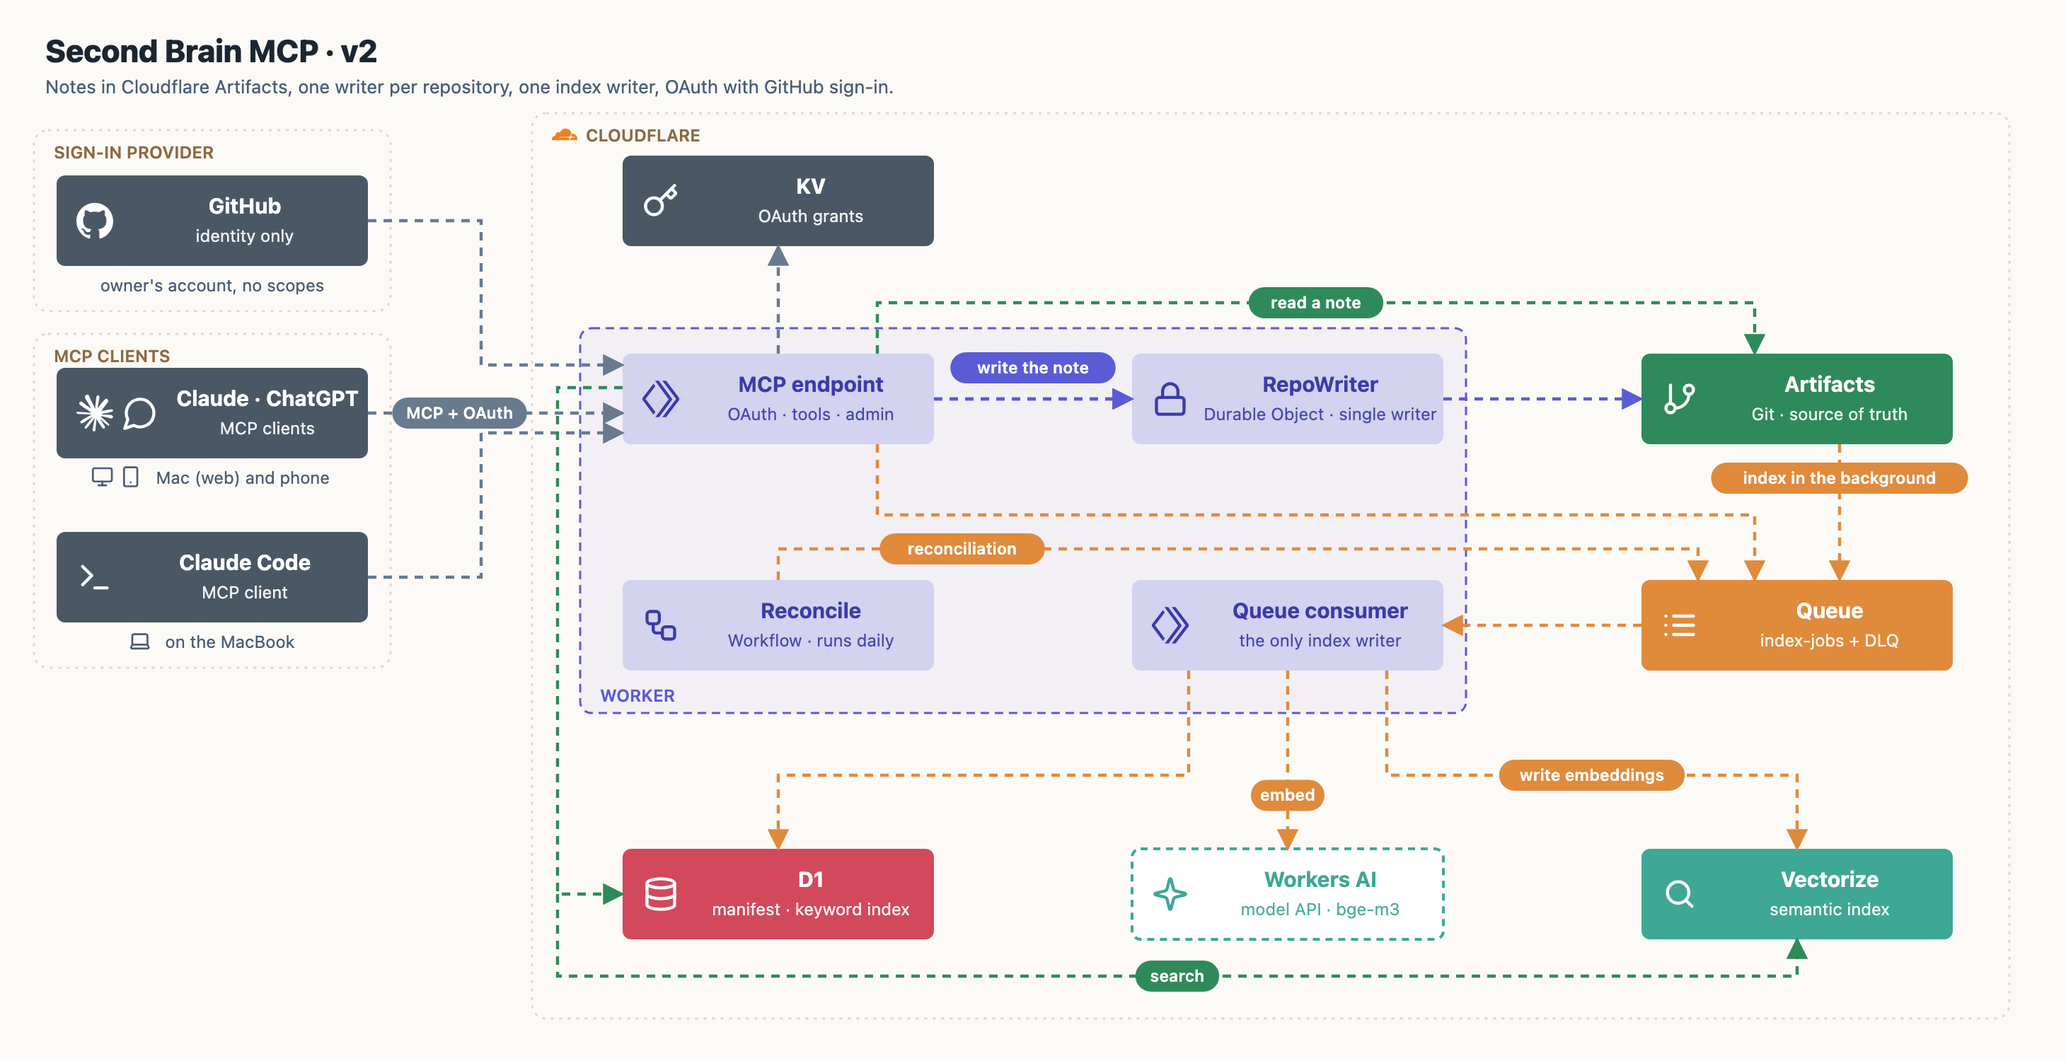
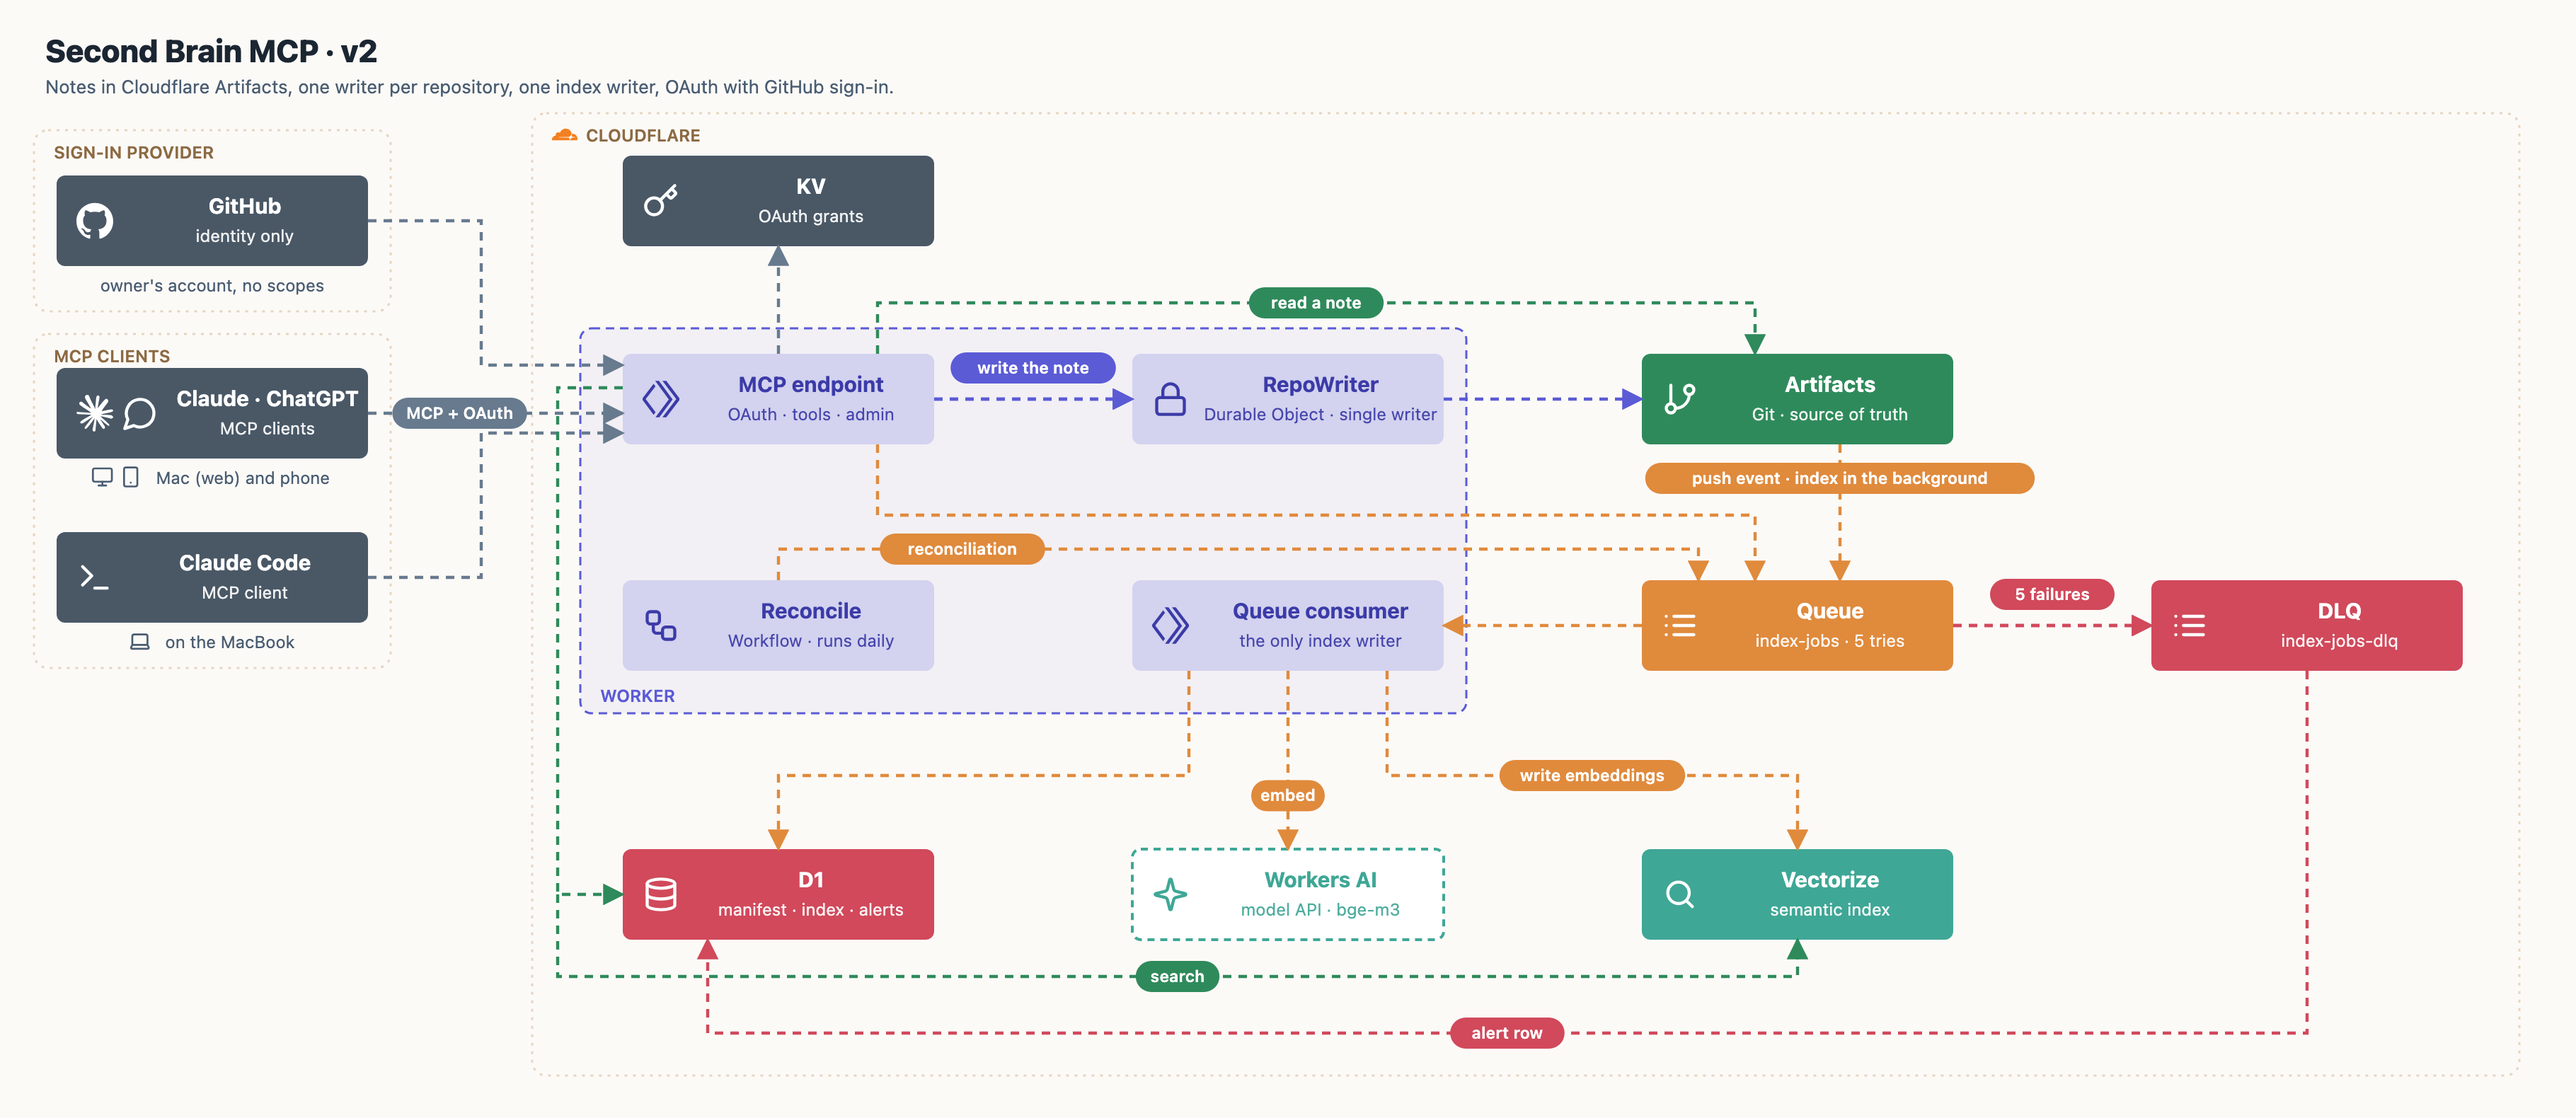
Architecture v2: DLQ box and one map per flow (#72)
* Architecture v2: show the DLQ and the alert row it writes to D1

Claude-Session: https://claude.ai/code/session_0171UdtAm1pRxwuhTFhKDhrM

* Architecture v2: name the push event that feeds the queue

Claude-Session: https://claude.ai/code/session_0171UdtAm1pRxwuhTFhKDhrM

* Architecture: one map per flow (sign-in, write, read, index, failure, search)

Claude-Session: https://claude.ai/code/session_0171UdtAm1pRxwuhTFhKDhrM

* Architecture: reconciliation as its own flow map

Claude-Session: https://claude.ai/code/session_0171UdtAm1pRxwuhTFhKDhrM

* Architecture: order the flow maps as a reader meets them

Claude-Session: https://claude.ai/code/session_0171UdtAm1pRxwuhTFhKDhrM

* Architecture: index before read and search

Claude-Session: https://claude.ai/code/session_0171UdtAm1pRxwuhTFhKDhrM

* Architecture: index flow shows only the real-time producers

Claude-Session: https://claude.ai/code/session_0171UdtAm1pRxwuhTFhKDhrM

* Architecture: reconciliation reads top to bottom (Artifacts, D1, Queue)

Claude-Session: https://claude.ai/code/session_0171UdtAm1pRxwuhTFhKDhrM

* Architecture: the reconcile schedule is a setting of the Workflow

Claude-Session: https://claude.ai/code/session_0171UdtAm1pRxwuhTFhKDhrM

* Architecture: failure flow ends at the DLQ; reconciliation is flow 6

Claude-Session: https://claude.ai/code/session_0171UdtAm1pRxwuhTFhKDhrM

* Architecture: '1. step' numbering on the flow maps
[…]

diff --git a/docs/architecture/draw_flows.py b/docs/architecture/draw_flows.py
@@ -1,0 +1,109 @@
+#!/usr/bin/env python3
+"""One map per flow (docs/architecture/flows/*.svg), in the same style as v2.svg.
+Numbers on the arrows give the order. Run: python3 docs/architecture/draw_flows.py"""
+import os, sys
+sys.path.insert(0, os.path.dirname(__file__))
+from draw import box, arrow, svg  # also redraws v1/v2, unchanged
+
+OUT = os.path.join(os.path.dirname(__file__), "flows")
+def save(name, w, h, title, sub, parts):
+    open(os.path.join(OUT, name + ".svg"), "w").write(svg(w, h, title, sub, "".join(parts)))
+
+client = lambda x, y: box(x, y, "MCP client", "Claude · ChatGPT · Code", "slate", icons=("chat",))
+endpoint = lambda x, y, cap=None: box(x, y, "MCP endpoint", "Worker · fetch()", "indigo", cap, icons=("workers",), kind="part")
+
+# 1. sign-in
+save("1-sign-in", 1160, 460, "Flow 1 · Sign-in", "OAuth 2.1 with GitHub as the identity provider; only the owner's account gets a grant.", [
+    client(40, 200), endpoint(460, 200),
+    box(880, 80, "GitHub", "identity only", "slate", "user id == OWNER_GITHUB_ID?", icons=("github",)),
+    box(880, 340, "KV", "OAuth grants", "slate", "token checked on every call", icons=("key",)),
+    arrow([(260, 210), (460, 210)], "1. register · authorize", flow="auth"),
+    arrow([(570, 200), (570, 112), (880, 112)], "2. sign in", at=0.25, flow="auth"),
+    arrow([(880, 132), (630, 132), (630, 200)], "3. callback", at=0.25, flow="auth"),
+    arrow([(570, 264), (570, 372), (880, 372)], "4. store grant", flow="auth"),
+    arrow([(460, 234), (260, 234)], "5. access token", flow="auth"),
+    arrow([(260, 258), (460, 258)], "6. /mcp + Bearer", flow="auth"),
+])
+
+# 2. write
+save("2-write", 1560, 400, "Flow 2 · Write a note", "One Durable Object per repository applies writes one at a time; the index catches up in the background.", [
+    client(40, 110), endpoint(460, 110),
+    box(880, 110, "RepoWriter", "Durable Object · mutex", "indigo", "stale expected_version → conflict", icons=("lock",), kind="part"),
+    box(1300, 110, "Artifacts", "Git · source of truth", "green", "branch moved → re-apply (3 tries)", icons=("branch",)),
+    box(880, 290, "Queue", "index-jobs", "orange", icons=("queue",)),
+    arrow([(260, 126), (460, 126)], "1. write_note", flow="write"),
+    arrow([(680, 142), (880, 142)], "2. one at a time", flow="write"),
+    arrow([(1100, 142), (1300, 142)], "3. commit + push", flow="write"),
+    arrow([(570, 174), (570, 322), (880, 322)], "4. enqueue path", flow="index"),
+    arrow([(460, 160), (260, 160)], "5. ok · version", flow="write"),
+])
+
+# 4. read
+save("4-read", 1140, 340, "Flow 4 · Read a note", "Straight from Git; the reply carries the version for a later write.", [
+    client(40, 160), endpoint(460, 160),
+    box(880, 160, "Artifacts", "Git · source of truth", "green", icons=("branch",)),
+    arrow([(260, 176), (460, 176)], "1. read_note", flow="read"),
+    arrow([(680, 176), (880, 176)], "2. read file", flow="read"),
+    arrow([(880, 208), (680, 208)], "3. content", flow="read"),
+    arrow([(460, 208), (260, 208)], "4. text + version", flow="read"),
+])
+
+# 3. index
+save("3-index", 1640, 440, "Flow 3 · Index in the background", "Two producers in real time (the daily repair is flow 6), one consumer: the only writer of both indexes.", [
+    endpoint(40, 80, "after each write"),
+    box(40, 200, "Artifacts", "push event", "green", icons=("branch",)),
+    box(460, 200, "Queue", "index-jobs · path only", "orange", icons=("queue",)),
+    box(880, 200, "Queue consumer", "Worker · queue()", "indigo", "same sha → skip · head moved → requeue", icons=("workers",), kind="part"),
+    box(1380, 60, "D1", "manifest · FTS5 chunks", "red", icons=("database",)),
+    box(1380, 200, "Workers AI", "model API · bge-m3", "teal", icons=("sparkles",), kind="api"),
+    box(1380, 340, "Vectorize", "semantic index", "teal", icons=("search",)),
+    arrow([(260, 112), (400, 112), (400, 214), (460, 214)], "1. enqueue", flow="index"),
+    arrow([(260, 232), (460, 232)], "1. pushed", flow="index"),
+    arrow([(680, 232), (880, 232)], "2. deliver", flow="index"),
+    arrow([(1100, 232), (1380, 232)], "3. embed chunks", flow="index"),
+    arrow([(1100, 248), (1150, 248), (1150, 372), (1380, 372)], "4. upsert h-seq", flow="index"),
+    arrow([(1100, 216), (1150, 216), (1150, 92), (1380, 92)], "5. manifest + FTS", flow="index"),
+])
+
+# 6. reconcile
+save("6-reconcile", 1160, 480, "Flow 6 · Reconciliation", "The schedule is a setting of the Workflow itself (also started by POST /admin/reconcile); it enqueues only what differs.", [
+    '<rect x="20" y="160" width="680" height="140" rx="8" fill="#5B5BD6" fill-opacity="0.06" stroke="#5B5BD6" stroke-width="1.5" stroke-dasharray="6 4"/>'
+    '<text x="34" y="292" class="gl" style="fill:#5B5BD6">WORKFLOW reconcile · Settings › Schedules</text>',
+    box(40, 184, "Schedule", "cron 0 4 * * * (UTC)", "indigo", icons=("workflow",), kind="part"),
+    box(460, 184, "Reconcile", "Workflow · durable steps", "indigo", icons=("workflow",), kind="part"),
+    box(880, 80, "Artifacts", "Git · source of truth", "green", icons=("branch",)),
+    box(880, 184, "D1", "manifest · FTS5 chunks", "red", icons=("database",)),
+    box(880, 340, "Queue", "index-jobs", "orange", "missing · changed · orphans · keyword gaps", icons=("queue",)),
+    arrow([(260, 216), (460, 216)], "start", flow="index"),
+    arrow([(570, 184), (570, 112), (880, 112)], "1. notes + sha", flow="index"),
+    arrow([(680, 216), (880, 216)], "2. what's indexed", flow="index"),
+    arrow([(570, 248), (570, 372), (880, 372)], "3. diff · 4. enqueue", flow="index"),
+])
+
+# 7. failure
+save("7-failure", 1560, 360, "Flow 7 · A job that keeps failing", "Retries with backoff, then the dead-letter queue. The note stays out of the index until flow 6 enqueues it again.", [
+    box(40, 100, "Queue", "retry 10·20·40·80·160 s", "orange", icons=("queue",)),
+    box(460, 100, "Queue consumer", "Worker · queue()", "indigo", icons=("workers",), kind="part"),
+    box(880, 100, "DLQ", "index-jobs-dlq", "red", icons=("queue",)),
+    box(1300, 100, "DLQ consumer", "Worker · queue()", "indigo", icons=("workers",), kind="part"),
+    box(1300, 250, "D1", "alerts table", "red", "nothing reads it yet", icons=("database",)),
+    arrow([(260, 116), (460, 116)], "1. deliver", flow="index"),
+    arrow([(460, 150), (260, 150)], "2. throws", flow="fail"),
+    arrow([(150, 164), (150, 230), (990, 230), (990, 164)], "3. after 5 failures", flow="fail"),
+    arrow([(1100, 132), (1300, 132)], "4. deliver", flow="fail"),
+    arrow([(1410, 164), (1410, 250)], "5. alert row · ack", flow="fail"),
+])
+
+# 5. search
+save("5-search", 1560, 380, "Flow 5 · Search", "Keyword and meaning in parallel, fused by reciprocal rank: 1 / (60 + rank).", [
+    client(40, 200), endpoint(460, 200, "RRF fuse · best chunk per note"),
+    box(880, 80, "D1", "FTS5 · BM25", "red", icons=("database",)),
+    box(880, 200, "Workers AI", "model API · bge-m3", "teal", icons=("sparkles",), kind="api"),
+    box(1300, 200, "Vectorize", "nearest chunks", "teal", "cosine ≥ 0.30", icons=("search",)),
+    arrow([(260, 216), (460, 216)], "1. search_notes", flow="read"),
+    arrow([(570, 200), (570, 112), (880, 112)], "2a. keyword", flow="read"),
+    arrow([(680, 232), (880, 232)], "2b. embed query", flow="read"),
+    arrow([(1100, 232), (1300, 232)], "3. query vector", flow="read"),
+    arrow([(460, 250), (260, 250)], "4. ranked notes", flow="read"),
+])
+print("flows ok")

diff --git a/docs/architecture/draw.py b/docs/architecture/draw.py
@@ -62,7 +62,7 @@ def devices(cx, y, names, label):
     t = "".join(f'<g transform="translate({x + i*20},{y - 13}) scale(0.67)" fill="none" stroke="{MUTED}" stroke-width="2" stroke-linecap="round" stroke-linejoin="round">{LUCIDE[n]}</g>' for i, n in enumerate(names))
     return t + f'<text x="{x + iw + 6}" y="{y}" class="c">{html.escape(label)}</text>'
 
-FLOW = dict(auth=LINE, write="#5B5BD6", index="#E08A3C", read="#2F8A5B")
+FLOW = dict(auth=LINE, write="#5B5BD6", index="#E08A3C", read="#2F8A5B", fail="#D1495B")
 FLOW_MARKERS = "".join(f'<marker id="m-{k}" viewBox="0 0 10 10" refX="9" refY="5" markerWidth="7" markerHeight="7" orient="auto-start-reverse"><path d="M0,0 L10,5 L0,10 z" fill="{v}"/></marker>' for k, v in FLOW.items())
 
 def legend(x, y, items):
@@ -123,13 +123,13 @@ open(os.path.join(os.path.dirname(__file__), "v1.svg"), "w").write(svg(1120, 650
 
 # ---------- v2 ----------
 # Columns: outside (A) | Worker & runners (B) | storage & queue (C) | indexes & AI (D)
-A, X1, X2, X3 = 40, 440, 800, 1160
+A, X1, X2, X3, X4 = 40, 440, 800, 1160, 1520
 # Read it like text, left to right, row by row:
 #   row 1, the write: Worker -> RepoWriter -> Artifacts
 #   row 2, indexing in the background: Workflow (daily repair) -> Queue
 #   row 3, the indexes: D1, Workers AI (embeddings), Vectorize
 v2 = []
-v2.append('<rect x="376" y="80" width="1044" height="640" rx="10" class="g"/>' + f'<path transform="translate(390,86) scale(0.75)" d="{BRANDS["cloudflare"]}" fill="#F38020"/>' + '<text x="414" y="100" class="gl">CLOUDFLARE</text>')
+v2.append('<rect x="376" y="80" width="1404" height="680" rx="10" class="g"/>' + f'<path transform="translate(390,86) scale(0.75)" d="{BRANDS["cloudflare"]}" fill="#F38020"/>' + '<text x="414" y="100" class="gl">CLOUDFLARE</text>')
 # GitHub is only the identity provider: its own group, apart from the MCP clients
 v2.append('<rect x="24" y="92" width="252" height="128" rx="10" class="g"/><text x="38" y="112" class="gl">SIGN-IN PROVIDER</text>')
 v2.append(box(A, 124, "GitHub", "identity only", "slate", "owner's account, no scopes", icons=("github",)))
@@ -148,9 +148,10 @@ v2.append(box(X3, 250, "Artifacts", "Git · source of truth", "green", icons=("b
 # row 2: indexing
 v2.append(box(X1, 410, "Reconcile", "Workflow · runs daily", "indigo", icons=("workflow",), kind="part"))
 v2.append(box(X2, 410, "Queue consumer", "the only index writer", "indigo", icons=("workers",), kind="part"))
-v2.append(box(X3, 410, "Queue", "index-jobs + DLQ", "orange", icons=("queue",)))
+v2.append(box(X3, 410, "Queue", "index-jobs · 5 tries", "orange", icons=("queue",)))
 # row 3: the indexes, and the model the consumer calls
-v2.append(box(X1, 600, "D1", "manifest · keyword index", "red", icons=("database",)))
+v2.append(box(X4, 410, "DLQ", "index-jobs-dlq", "red", icons=("queue",)))
+v2.append(box(X1, 600, "D1", "manifest · index · alerts", "red", icons=("database",)))
 v2.append(box(X2, 600, "Workers AI", "model API · bge-m3", "teal", icons=("sparkles",), kind="api"))
 v2.append(box(X3, 600, "Vectorize", "semantic index", "teal", icons=("search",)))
 # sign-in and MCP calls
@@ -164,17 +165,21 @@ v2.append(arrow([(660, 282), (800, 282)], "write the note", flow="write", dy=-22
 v2.append(arrow([(1020, 282), (1160, 282)], flow="write"))
 # into the Queue: enqueue after a write, the push event, and the daily repair
 v2.append(arrow([(620, 314), (620, 364), (1240, 364), (1240, 410)], flow="index"))
-v2.append(arrow([(1300, 314), (1300, 410)], "index in the background", at=0.25, flow="index"))
+v2.append(arrow([(1300, 314), (1300, 410)], "push event · index in the background", at=0.25, flow="index"))
 v2.append(arrow([(550, 410), (550, 388), (1200, 388), (1200, 410)], "reconciliation", at=0.2, flow="index"))
 # the consumer takes jobs, asks for embeddings, writes both indexes
 v2.append(arrow([(1160, 442), (1020, 442)], flow="index"))
 v2.append(arrow([(840, 474), (840, 548), (550, 548), (550, 600)], flow="index"))
 v2.append(arrow([(910, 474), (910, 600)], "embed", at=0.7, flow="index"))
 v2.append(arrow([(980, 474), (980, 548), (1270, 548), (1270, 600)], "write embeddings", at=0.5, flow="index"))
+# a job that fails 5 times goes to the DLQ; its consumer records an alert in D1
+v2.append(arrow([(1380, 442), (1520, 442)], flow="fail"))
+v2.append(arrow([(1380, 442), (1520, 442)], "5 failures", flow="fail", dy=-22))
+v2.append(arrow([(1630, 474), (1630, 730), (500, 730), (500, 664)], "alert row", at=0.5, flow="fail"))
 # read and search
 v2.append(arrow([(620, 250), (620, 214), (1240, 214), (1240, 250)], "read a note", at=0.5, flow="read"))
 v2.append(arrow([(440, 274), (394, 274), (394, 632), (440, 632)], flow="read"))
 v2.append(arrow([(394, 632), (394, 690), (1270, 690), (1270, 664)], "search", flow="read"))
 
-open(os.path.join(os.path.dirname(__file__), "v2.svg"), "w").write(svg(1460, 750, "Second Brain MCP · v2", "Notes in Cloudflare Artifacts, one writer per repository, one index writer, OAuth with GitHub sign-in.", "".join(v2)))
+open(os.path.join(os.path.dirname(__file__), "v2.svg"), "w").write(svg(1820, 790, "Second Brain MCP · v2", "Notes in Cloudflare Artifacts, one writer per repository, one index writer, OAuth with GitHub sign-in.", "".join(v2)))
 print("ok")

diff --git a/ARCHITECTURE.md b/ARCHITECTURE.md
@@ -4,6 +4,7 @@ The low-level design: every component, how it works and the decision behind it. 
 
 ![Architecture of v2](docs/architecture/v2.png)
 
+
 | Concern | How | Decision |
 |---|---|---|
 | Where notes live | Cloudflare **Artifacts** (Git), read through a binding | [ADR 007](docs/adr/007-cloudflare-artifacts-for-the-notes.md) |
@@ -18,6 +19,38 @@ The low-level design: every component, how it works and the decision behind it. 
 **Limits of this design.** All writes to one repository go through one Durable Object, about two writes per second from the spike's measurements; a team would shard by repository ([at scale](docs/design/at-scale.md)). A missed push event waits for the daily reconciliation, so the index can lag by up to a day, never stay wrong.
 
 The full design, with flows and consistency rules, is in the [v2 spec](docs/spec/v2.md). For comparison, [v1](docs/architecture/v1.png).
+
+## Flows
+
+One map per flow, in the order a note lives them: sign in, write, index, then read and search; the daily repair and the failure path last. Numbers on the arrows give the order of the steps. Drawn by [`draw_flows.py`](docs/architecture/draw_flows.py).
+
+### 1. Sign-in
+
+![Flow 1: Sign-in](docs/architecture/flows/1-sign-in.png)
+
+### 2. Write a note
+
+![Flow 2: Write a note](docs/architecture/flows/2-write.png)
+
+### 3. Index in the background
+
+![Flow 3: Index in the background](docs/architecture/flows/3-index.png)
+
+### 4. Read a note
+
+![Flow 4: Read a note](docs/architecture/flows/4-read.png)
+
+### 5. Search
+
+![Flow 5: Search](docs/architecture/flows/5-search.png)
+
+### 6. Reconciliation
+
+![Flow 6: Reconciliation](docs/architecture/flows/6-reconcile.png)
+
+### 7. A job that keeps failing
+
+![Flow 7: A job that keeps failing](docs/architecture/flows/7-failure.png)
 
 ## Repository
 

diff --git a/docs/architecture/README.md b/docs/architecture/README.md
@@ -1,3 +1,3 @@
 # Architecture
 
-Moved to [ARCHITECTURE.md](../../ARCHITECTURE.md). This folder holds the maps and the script that draws them ([`draw.py`](draw.py)).
+Moved to [ARCHITECTURE.md](../../ARCHITECTURE.md). This folder holds the maps and the script that draws them ([`draw.py`](draw.py) for the overview, [`draw_flows.py`](draw_flows.py) for one map per flow in [`flows/`](flows)).
